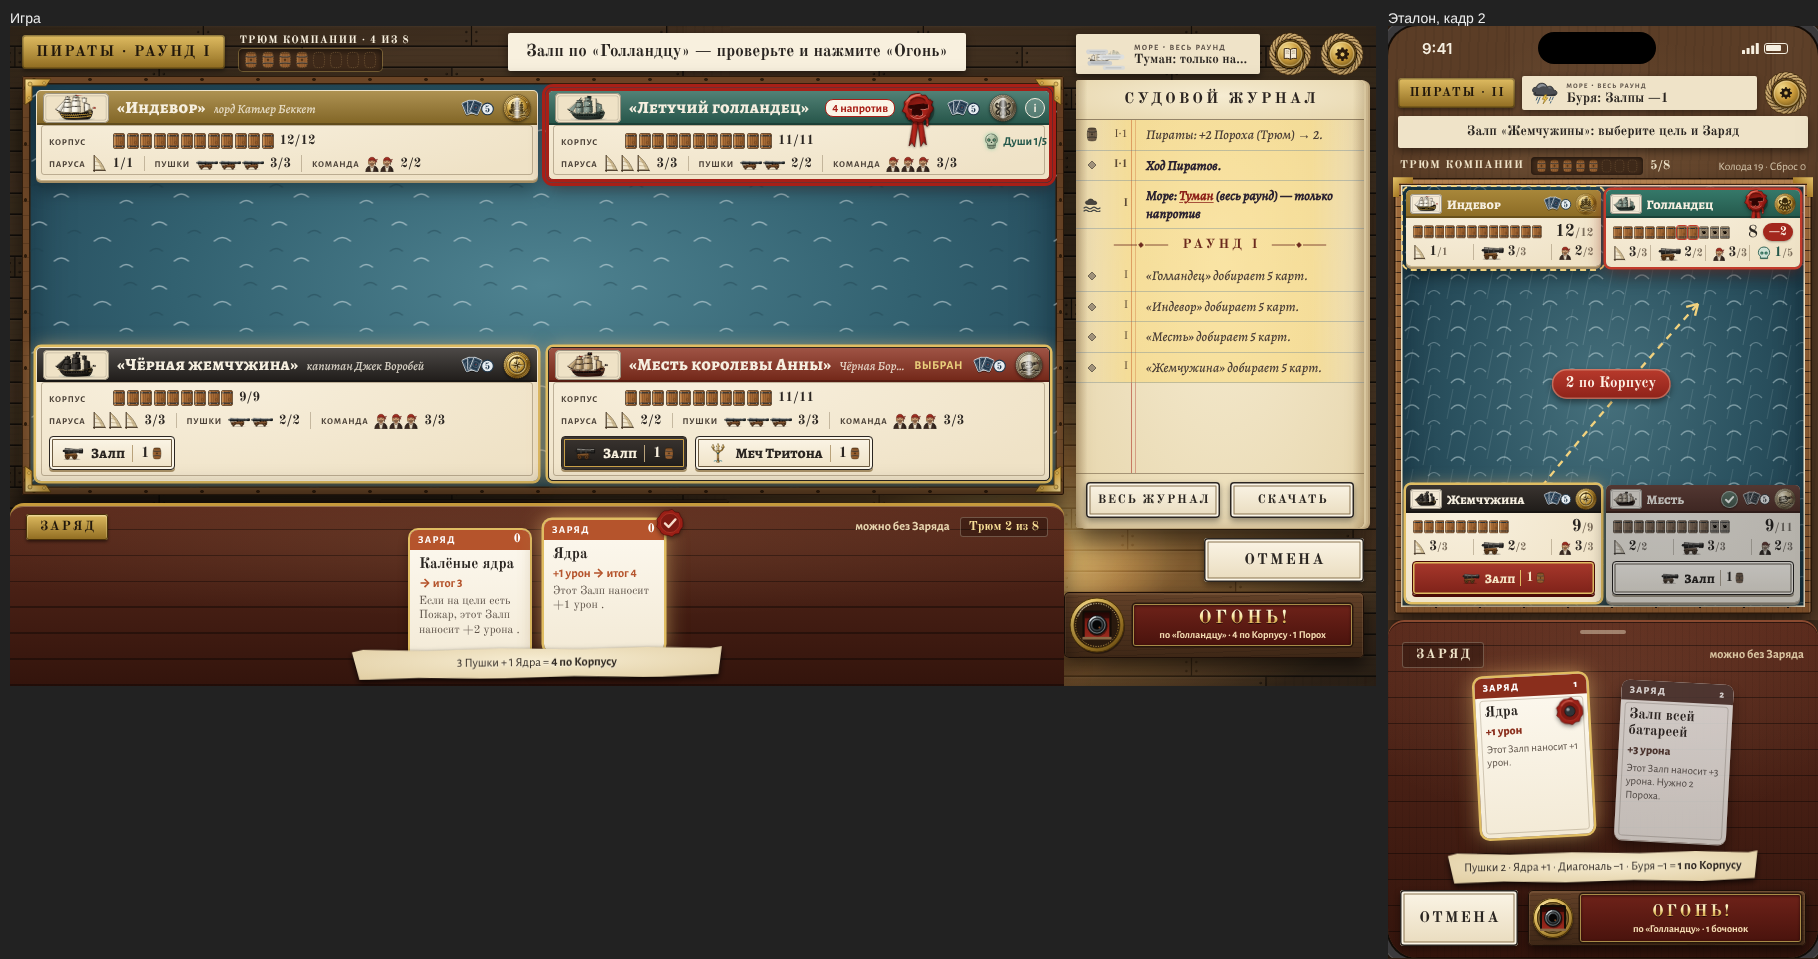
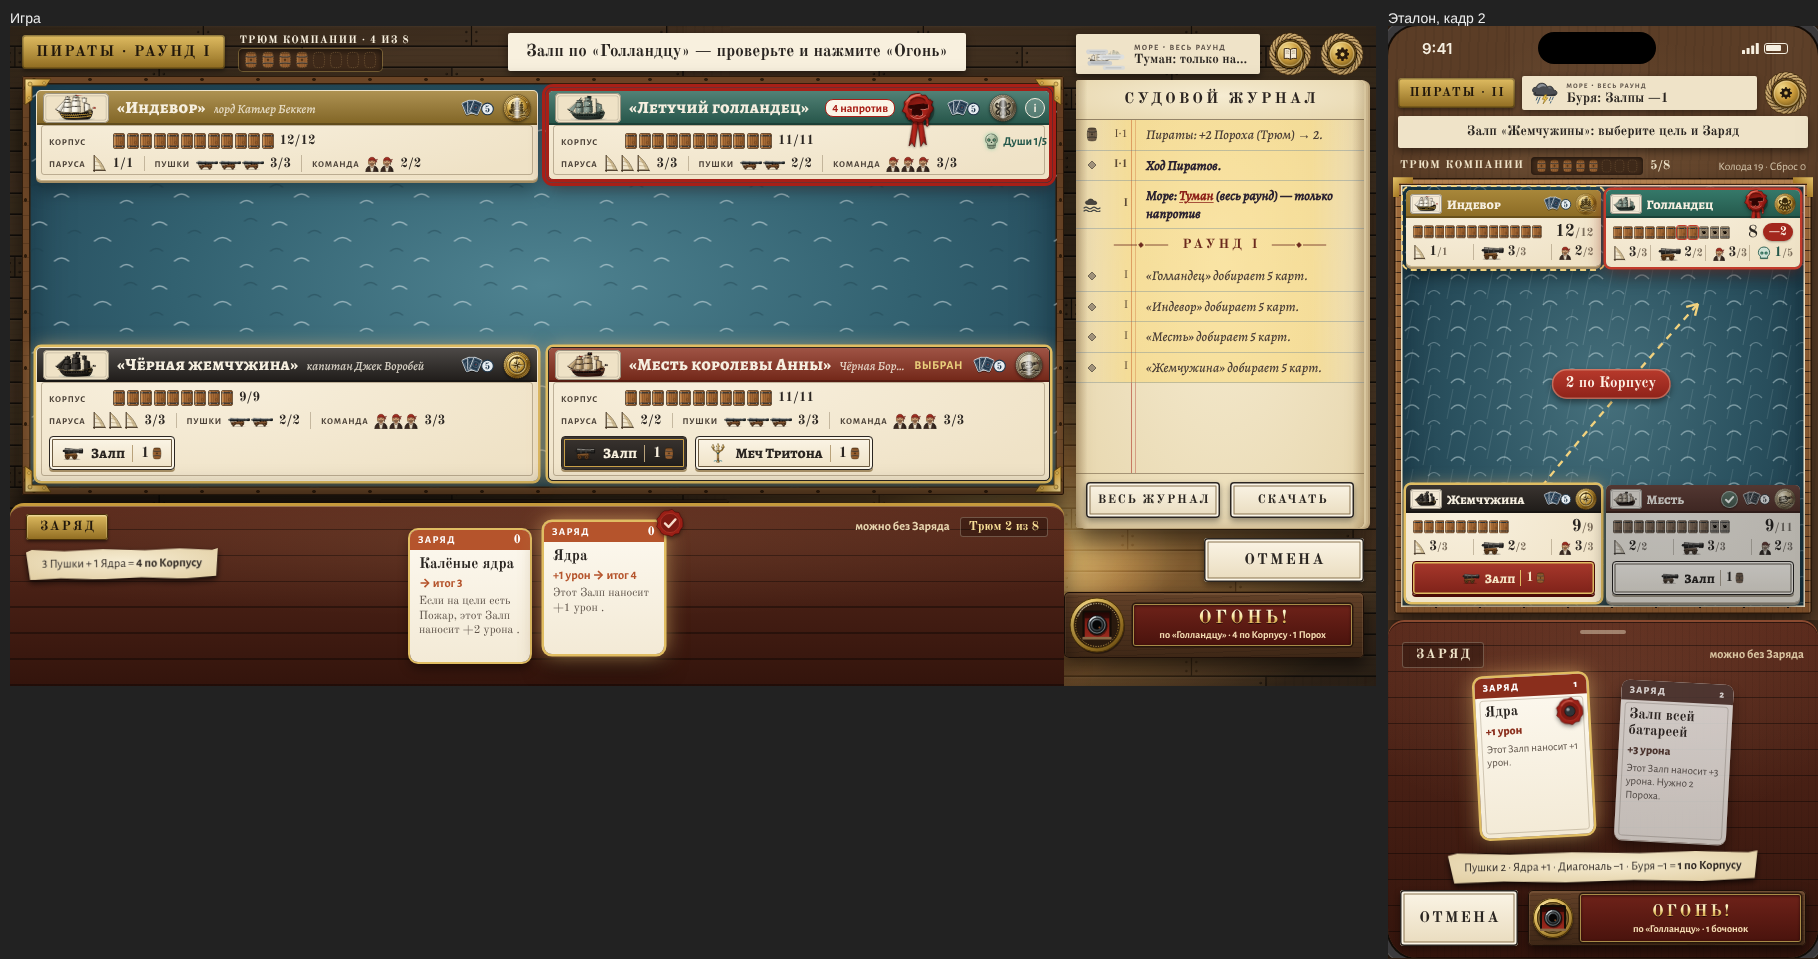
a5-log: charge sheet on a laptop — the slip under the plate on the left, the cards whole in the sheet
Claude-Session: https://claude.ai/code/session_013rmRqr8H1yhhRtUNZNiXks

Changed region(s): [[0.1848, 0.635, 0.4004, 0.7258], [0.308, 0.5141, 0.3696, 0.635], [0.0, 0.5746, 0.1232, 0.6048]]

diff --git a/src/ui/game/charge.css b/src/ui/game/charge.css
@@ -219,10 +219,7 @@
     left: -12px;
     right: 0;
     z-index: 8;
-    display: flex;
-    flex-direction: column;
-    gap: 4px;
-    padding: 8px 16px 8px;
+    padding: 8px 16px;
   }
   .game.charge-open .hand-row > .hand {
     visibility: hidden;
@@ -232,18 +229,38 @@
     position: relative;
     z-index: 9;
   }
-  .charge-sheet .cs-cards {
-    flex: 1;
-    min-height: 0;
-    align-items: center;
-    padding-top: 4px;
+  /* the cards in the middle of the whole sheet, whole in it (a card of the hand fits at 1366 × 660 with ≥ 8 px to the
+     edges, the lift included); the plate, the note and the Hold over its corners; the slip under the plate on the left */
+  .charge-sheet .cs-head {
+    position: absolute;
+    top: 8px;
+    left: 16px;
+    right: 16px;
+    pointer-events: none;
   }
-  .charge-sheet .cs-paid,
+  .charge-sheet .cs-cards {
+    height: 100%;
+    align-items: center;
+  }
+  .charge-sheet .cs-card.on .hcard {
+    transform: translateY(-8px);
+  }
   .charge-sheet .slipw {
-    flex: none;
+    position: absolute;
+    left: 16px;
+    top: 44px;
+    max-width: 300px;
+    transform-origin: left top;
+  }
+  .charge-sheet .slip {
+    max-width: 300px;
+    margin: 0;
+    text-align: left;
   }
   .charge-sheet .cs-paid {
-    align-self: center;
+    position: absolute;
+    left: 16px;
+    bottom: 8px;
   }
   /* the buttons in the place of «Ход окончен»: «Отмена» over «Огонь!» (300 × 66) */
   .hand-actions.charge-mode .charge-btns {

diff --git a/docs/progress/a5-log.md b/docs/progress/a5-log.md
@@ -57,3 +57,6 @@
   нажатие — выбрать/снять, карта целиком — наведение 0,4 с (ноутбук) или долгое нажатие (телефон), над листом. Печать —
   в правом верхнем углу, наполовину за краем, не закрывает название и стоимость. typecheck — зелёный.
   Кадры: `2-charge-{hints,plain}-1366x660.png`, `2-charge-peek-1366x660.png`, `2-charge-hints-430x932.png`.
+- Правка 3: лист «Заряд» на ноутбуке — клочок с расчётом слева под табличкой «ЗАРЯД» (не шире 300 px, одна-две строки), карты
+  целиком в листе: размер карты руки помещается на 1366×660 с запасом 24–27 px сверху и снизу (у поднятой — 19 и 32), уменьшать
+  до 0,9 не понадобилось. Телефон не менялся. typecheck — зелёный. Кадр: `2-charge-hints-1366x660.png`.
